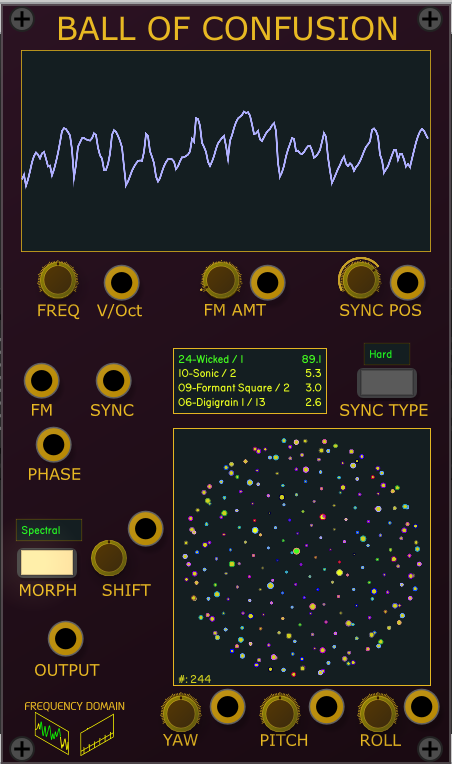
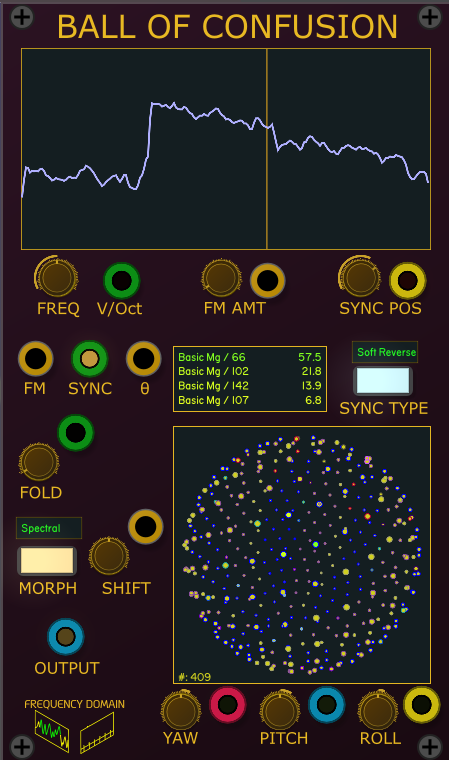
1.8.1 redux

Changed region(s): [[0.0, 0.0, 1.0, 1.0], [0.2183, 0.3329, 0.3118, 0.4237], [0.4677, 0.1211, 0.4989, 0.1513]]

diff --git a/README.md b/README.md
@@ -24,6 +24,7 @@ Frequency domain based VCV Plugins
 -- If the Sync Mode is set to Hard, and a signal is sent to the SYNC input, then each time thas signal crosses 0, the waveform is reset.
 -- If the Sync Mode is set to Soft, if the phase of the waveform is before the SYNC POS (the gold line) when the SYNC Input crosses 0, the waveform will be reset.
 -- If the Sync Mode is set to Soft Reverse, if the phase of the waveform is before the SYNC POS (the gold line) when the SYNC Input crosses 0, the waveform will be reversed.
+- The Fold Control allows distortion of the wave shape using standard wavefolding technique 
 
 ## Box of Revelation
 ![Box of Revelation](./doc/box_of_revelation.png)

diff --git a/CHANGELOG.md b/CHANGELOG.md
@@ -1,6 +1,7 @@
 ### 1.8.1 (2020-09-08)
 - Adjusted volume on some cube models, added a couple more
 - New Morph Mode for Ball of Confusion - Transfer uses other wavetables as a wavetable transfer function
+- Added Wavefolding to BoC
 
 ### 1.8.0 (2020-09-08)
 - Added Box of Revelation Module
